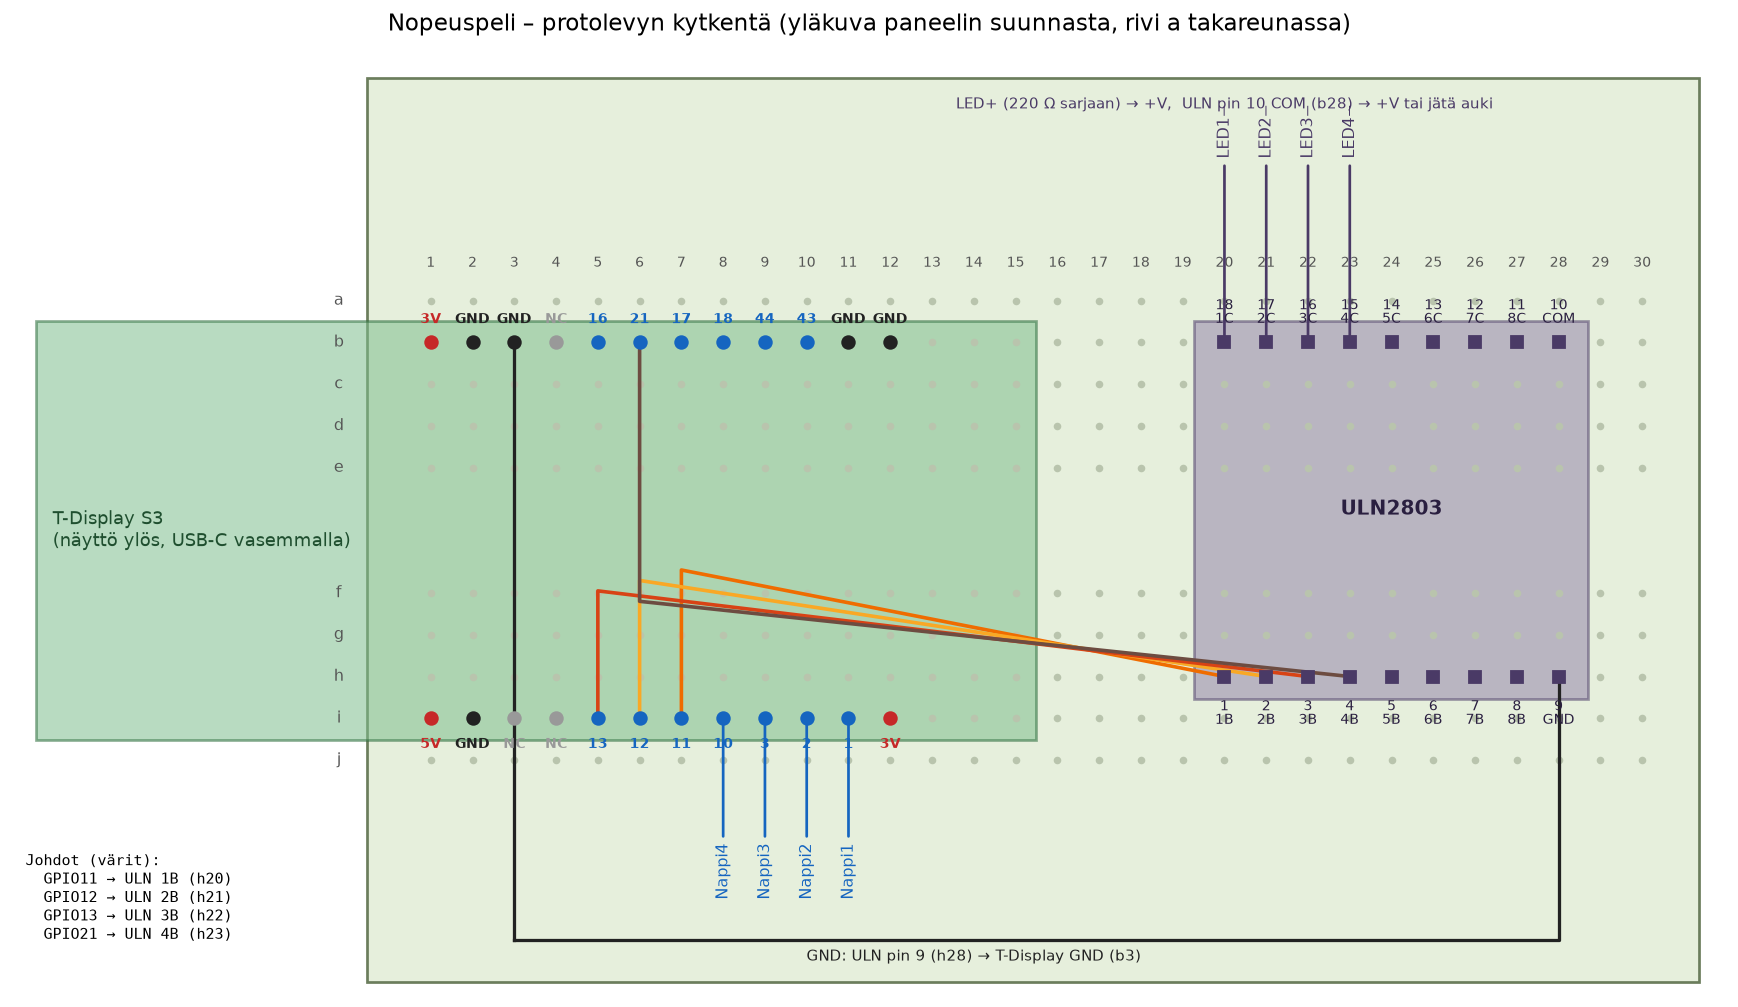
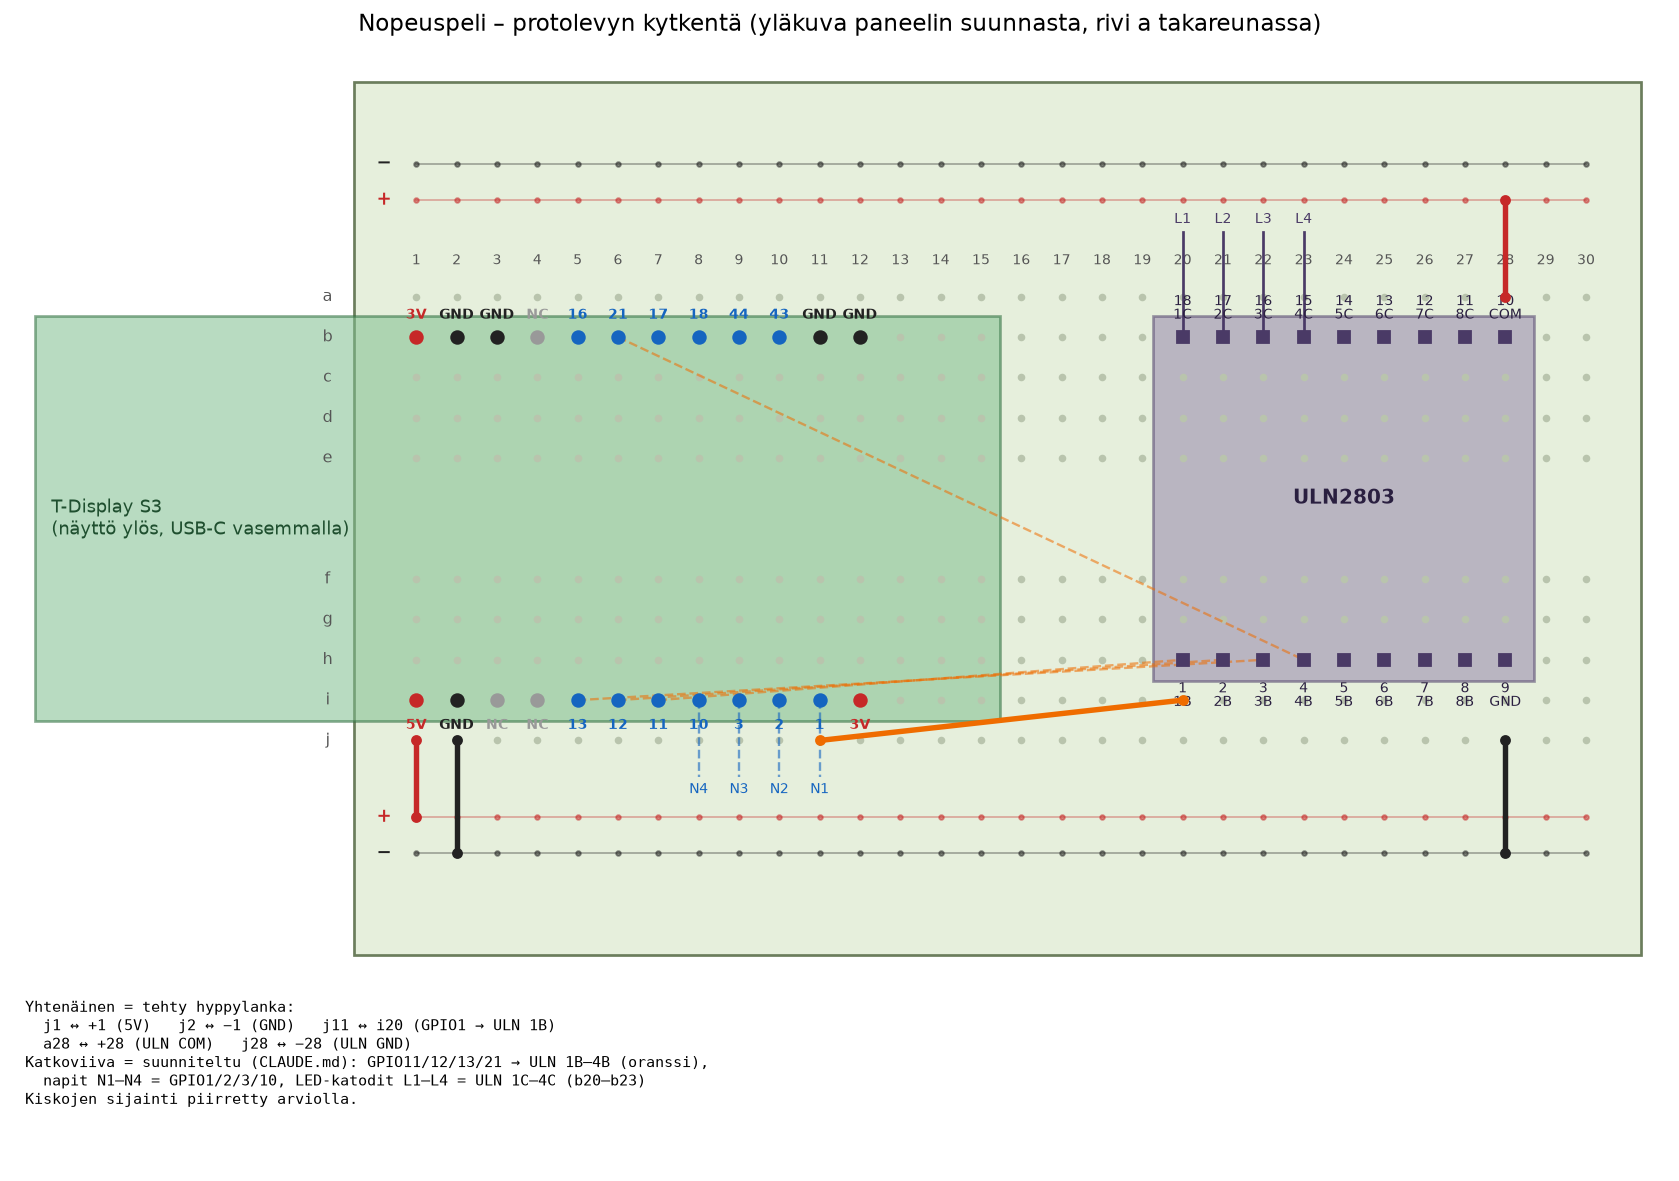
Päivitä kytkentäkuva: tehdyt hyppylangat ja kiskot

diff --git a/docs/kytkenta.py b/docs/kytkenta.py
@@ -83,42 +83,54 @@ for p, (r, c) in ULN.items():
     dy = -0.55 if r == "b" else 0.62
     ax.text(x, y + (-0.75 if r == "b" else 0.85), f"{p}\n{ULN_NAME[p]}", ha="center", va="center", fontsize=7.5, color="#2a1f40", zorder=6, linespacing=1.0)
 
-# johdot: GPIO -> ULN-sisääntulo (LEDit)
-led = [("GPIO11", 1), ("GPIO12", 2), ("GPIO13", 3), ("GPIO21", 4)]
-colors = ["#ef6c00", "#f9a825", "#d84315", "#6d4c41"]
-for (g, p), c in zip(led, colors):
-    (r1, c1), (r2, c2) = find_td(g), ULN[p]
+
+# --- kiskot (reunakiskot, sijainti arvio: + ja − sekä ylhäällä että alhaalla) ---
+RAILS = {"yla+": (-2.4, "#c62828", "+"), "yla-": (-3.3, "#222", "−"),
+         "ala+": (12.9, "#c62828", "+"), "ala-": (13.8, "#222", "−")}
+for key, (ry, rc, lab) in RAILS.items():
+    ax.plot([1, 30], [ry, ry], "-", color=rc, lw=1, alpha=0.35, zorder=2)
+    for c in range(1, 31):
+        ax.plot(c, ry, "o", ms=2.6, color=rc, alpha=0.5, zorder=2)
+    ax.text(0.2, ry, lab, color=rc, ha="center", va="center", fontsize=10, weight="bold")
+
+# --- SUUNNITELTU (katkoviiva): GPIO -> ULN-sisääntulo, napit, LED-katodit ---
+plan = [("GPIO11", 1), ("GPIO12", 2), ("GPIO13", 3), ("GPIO21", 4)]
+for (g, pn) in plan:
+    (r1, c1), (r2, c2) = find_td(g), ULN[pn]
     x1, y1 = xy(r1, c1)
     x2, y2 = xy(r2, c2)
-    ax.plot([x1, x1 + 0.0, x2], [y1, 6.2 + 0.25 * p, y2], color=c, lw=2, zorder=4, solid_capstyle="round")
-
-# LED-katodit ULN-ulostuloista -> LED- (kaapeli koteloon)
-for n in range(1, 5):
-    p = 19 - n
-    x, y = xy(*ULN[p])
-    ax.annotate(f"LED{n}−", (x, y), (x, -3.4), ha="center", va="bottom", rotation=90, fontsize=9, color="#4a3a66",
-                arrowprops=dict(arrowstyle="-", color="#4a3a66", lw=1.5))
-
-# napit: GPIO -> kaapeli napille (toinen jalka GND)
+    ax.plot([x1, x2], [y1, y2], "--", color="#ef6c00", lw=1.3, alpha=0.55, zorder=3)
 for n, g in enumerate(["GPIO1", "GPIO2", "GPIO3", "GPIO10"], 1):
     x, y = xy(*find_td(g))
-    ax.annotate(f"Nappi{n}", (x, y), (x, 13.0), ha="center", va="top", rotation=90, fontsize=9, color="#1565c0",
-                arrowprops=dict(arrowstyle="-", color="#1565c0", lw=1.5))
+    ax.plot([x, x], [y, 11.9], "--", color="#1565c0", lw=1.3, alpha=0.6, zorder=3)
+    ax.text(x, 12.05, f"N{n}", ha="center", va="top", fontsize=7.5, color="#1565c0")
+for n in range(1, 5):
+    x, y = xy(*ULN[19 - n])
+    ax.plot([x, x], [y, -1.6], "-", color="#4a3a66", lw=1.5, zorder=3)
+    ax.text(x, -1.75, f"L{n}", ha="center", va="bottom", fontsize=7.5, color="#4a3a66")
 
-# GND ULN:lle
-gx, gy = xy(*ULN[9])
-b3x, b3y = xy("b", 3)
-ax.plot([gx, gx, b3x], [gy, 15.3, 15.3], color="#222", lw=1.8, zorder=3)
-ax.plot([b3x, b3x], [15.3, b3y], color="#222", lw=1.8, zorder=3)
-ax.text(14, 15.8, "GND: ULN pin 9 (h28) → T-Display GND (b3)", fontsize=8.5, color="#222", ha="center")
+# --- TEHDYT hyppylangat (yhtenäinen viiva) ---
+def wire(a, b, color, label=None):
+    (x1, y1), (x2, y2) = a, b
+    ax.plot([x1, x2], [y1, y2], "-", color=color, lw=3, zorder=7, solid_capstyle="round")
+    ax.plot([x1, x2], [y1, y2], "o", ms=5, color=color, zorder=8)
 
-ax.text(20, -4.6, "LED+ (220 Ω sarjaan) → +V,  ULN pin 10 COM (b28) → +V tai jätä auki", fontsize=8.5,
-        color="#4a3a66", ha="center")
-ax.text(-8.7, 13.2, "Johdot (värit):\n  GPIO11 → ULN 1B (h20)\n  GPIO12 → ULN 2B (h21)\n  GPIO13 → ULN 3B (h22)\n  GPIO21 → ULN 4B (h23)",
+wire(xy("j", 1), (1, RAILS["ala+"][0]), "#c62828")          # j1  <-> +1  (5V)
+wire(xy("j", 2), (2, RAILS["ala-"][0]), "#222")             # j2  <-> -1  (GND)
+wire(xy("j", 11), xy("i", 20), "#ef6c00")                   # j11 <-> i20 (GPIO1 -> ULN 1B)
+wire(xy("a", 28), (28, RAILS["yla+"][0]), "#c62828")        # a28 <-> +28 (ULN COM)
+wire(xy("j", 28), (28, RAILS["ala-"][0]), "#222")           # j28 <-> -28 (ULN GND)
+
+ax.text(-8.7, 17.4, "Yhtenäinen = tehty hyppylanka:\n"
+        "  j1 ↔ +1 (5V)   j2 ↔ −1 (GND)   j11 ↔ i20 (GPIO1 → ULN 1B)\n"
+        "  a28 ↔ +28 (ULN COM)   j28 ↔ −28 (ULN GND)\n"
+        "Katkoviiva = suunniteltu (CLAUDE.md): GPIO11/12/13/21 → ULN 1B–4B (oranssi),\n"
+        "  napit N1–N4 = GPIO1/2/3/10, LED-katodit L1–L4 = ULN 1C–4C (b20–b23)\n"
+        "Kiskojen sijainti piirretty arviolla.",
         fontsize=8.5, va="top", family="monospace")
 ax.set_title("Nopeuspeli – protolevyn kytkentä (yläkuva paneelin suunnasta, rivi a takareunassa)", fontsize=13,
              pad=20)
 ax.set_xlim(-9, 32)
-ax.set_ylim(16.6, -5.6)
+ax.set_ylim(21.6, -5.7)
 fig.savefig("docs/kytkenta.png", dpi=130, bbox_inches="tight")
 print("ok")
